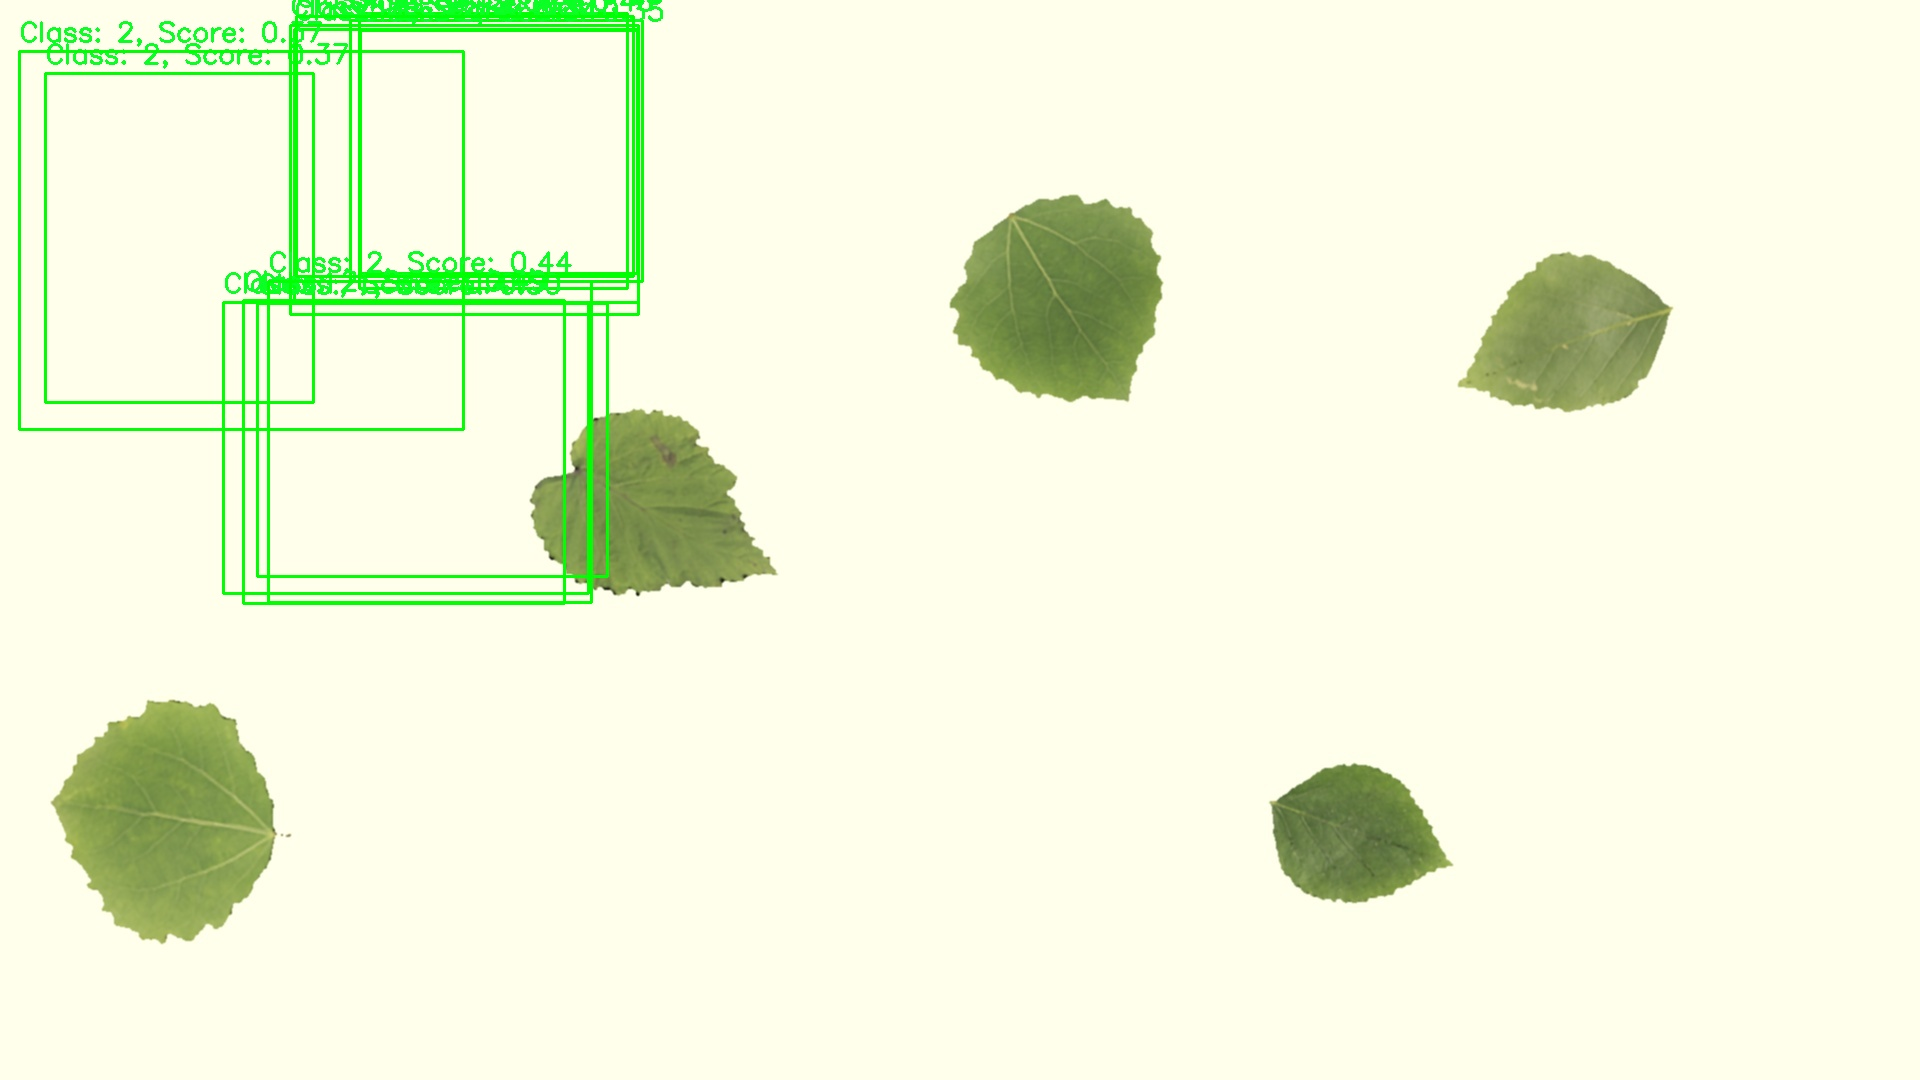
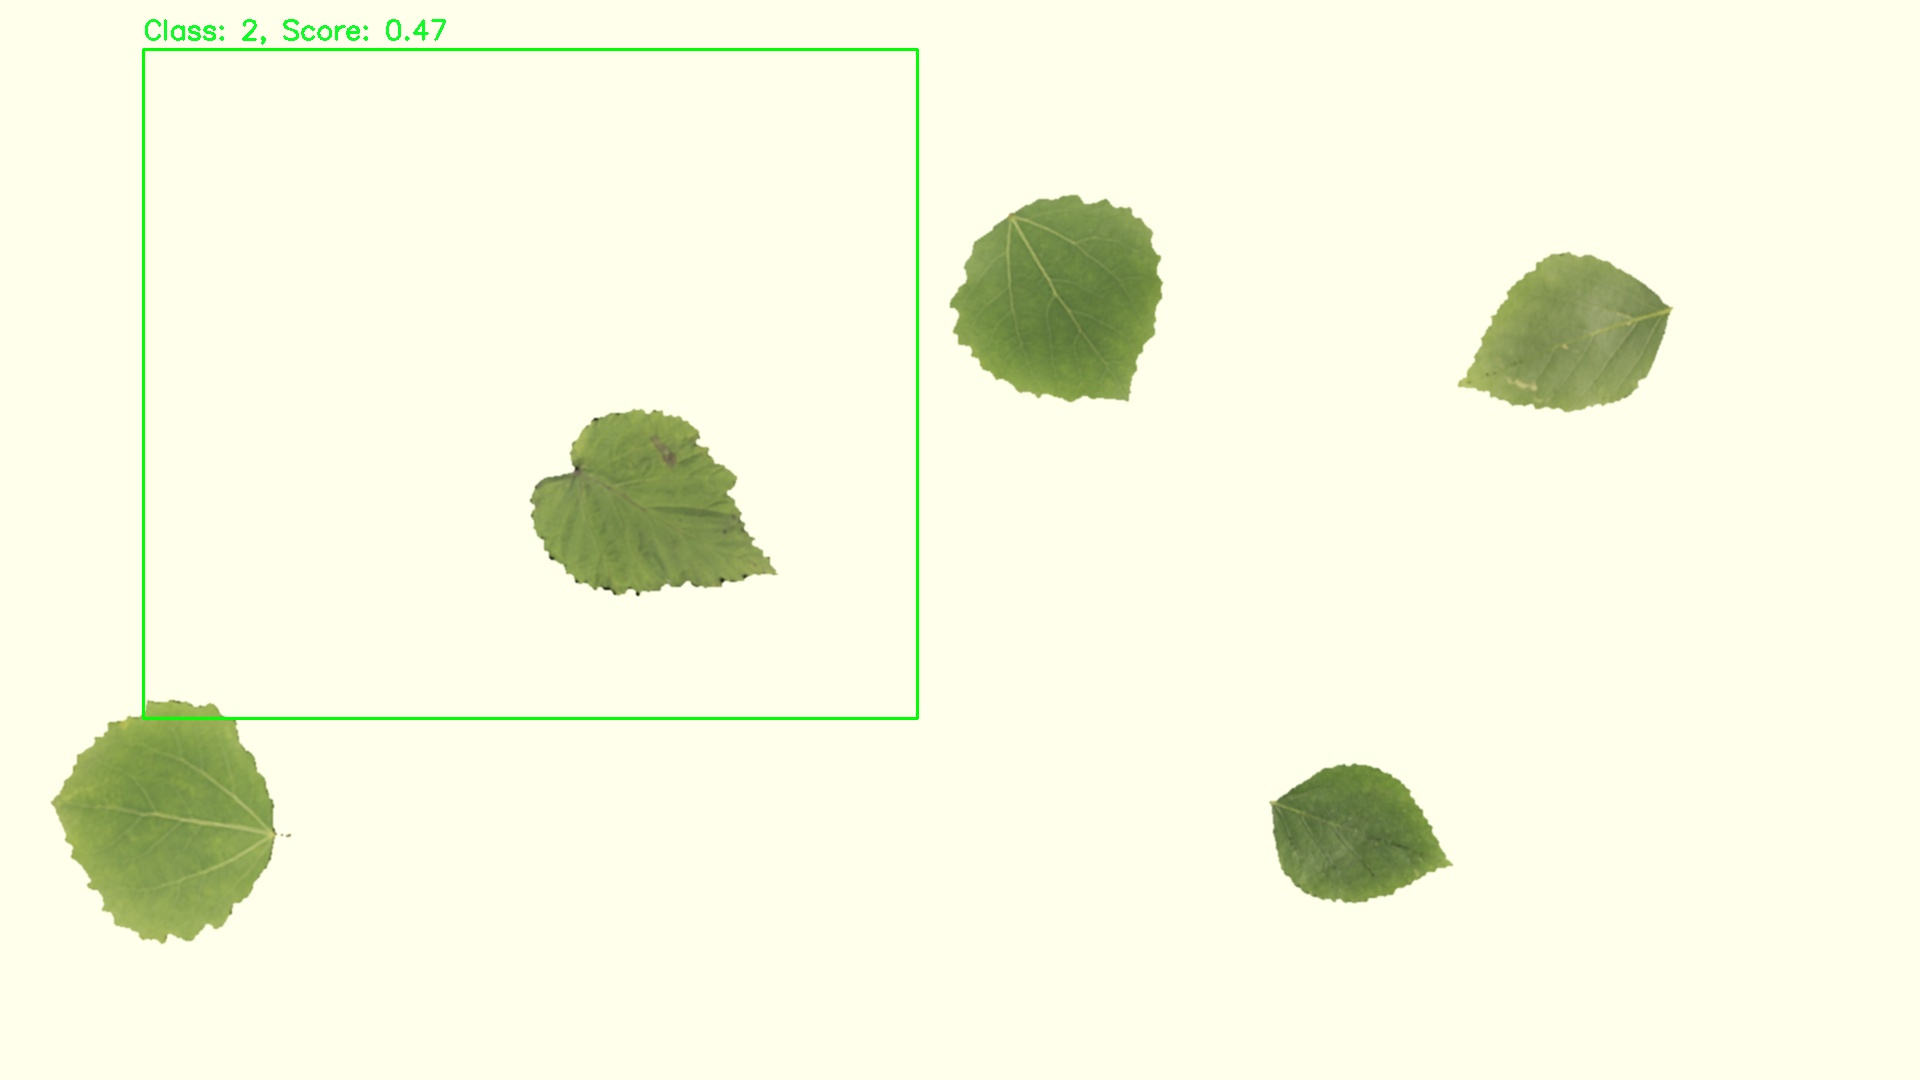
updated preprocessing functionality in detect_test, now it applies boxes in properly resized version of the image ,avoids too much of the overlap.

Changed region(s): [[0.0, 0.0, 0.4688, 0.5806], [0.0625, 0.6417, 0.5, 0.6722], [0.2188, 0.3667, 0.25, 0.3972]]

diff --git a/detect_test.py b/detect_test.py
@@ -3,15 +3,42 @@ import cv2
 import numpy as np
 
 
-def preprocess_image(img_path, img_size=640):
+def preprocess_image(img_path, img_size=640, maintain_aspect_ratio=True):
     img = cv2.imread(img_path)
+    if img is None:
+        raise FileNotFoundError(f"Image not found: {img_path}")
+
     img = cv2.cvtColor(img, cv2.COLOR_BGR2RGB)
-    img = cv2.resize(img, (img_size, img_size))
+
+    if maintain_aspect_ratio:
+        old_size = img.shape[:2]
+        ratio = float(img_size) / max(old_size)
+        new_size = tuple([int(x * ratio) for x in old_size])
+        img = cv2.resize(img, (new_size[1], new_size[0]))
+        delta_w = img_size - new_size[1]
+        delta_h = img_size - new_size[0]
+        top, bottom = delta_h // 2, delta_h - (delta_h // 2)
+        left, right = delta_w // 2, delta_w - (delta_w // 2)
+        color = [0, 0, 0]
+        img = cv2.copyMakeBorder(img, top, bottom, left, right, cv2.BORDER_CONSTANT, value=color)
+        pad = (left, top, right, bottom)
+
+        padded_height = new_size[0] + top + bottom
+        padded_width = new_size[1] + left + right
+        if padded_width <= 0 or padded_height <= 0:
+            raise ValueError("Padding has resulted in non-positive dimensions of the image.")
+
+        current_size = (padded_width, padded_height)
+        print(f"After padding, current size: {current_size}")
+    else:
+        img = cv2.resize(img, (img_size, img_size))
+        current_size = (img_size, img_size)
+        pad = (0, 0, 0, 0)
+
     img = img / 255.0
     img = np.transpose(img, (2, 0, 1))
-    img = torch.tensor(img).float().unsqueeze(0)
-    return img
-
+    img_tensor = torch.tensor(img, dtype=torch.float).unsqueeze(0)
+    return img_tensor, current_size, pad
 
 def iou(box, boxes):
     inter_x1 = np.maximum(boxes[:, 0], box[0])
@@ -35,14 +62,13 @@ def nms(boxes, scores, iou_threshold):
         keep.append(i)
         if indices.size == 1: break
         ious = iou(boxes[i], boxes[indices[1:]])
-        # Diagnostic print to check the effect of IoU thresholding
         print(f"Indices before filtering: {indices.size}")
         indices = indices[np.where(ious < iou_threshold)[0] + 1]
         print(f"Indices after filtering: {indices.size}")
     return keep
 
 
-def apply_nms(predictions, iou_thresh=0.2):
+def apply_nms(predictions, iou_thresh=0.8):
     print("apply_nms called")
     boxes = predictions[:, :4].cpu().numpy()
     scores = predictions[:, 4].cpu().numpy()
@@ -51,8 +77,7 @@ def apply_nms(predictions, iou_thresh=0.2):
     print(f"Number of predictions after NMS: {len(nms_indices)}")
     return predictions[nms_indices]
 
-
-def post_process(predictions, obj_thresh=0.3, iou_thresh=0.2):
+def post_process(predictions, obj_thresh=0.5, iou_thresh=0.8):
     print(f"Predictions before objectness filtering: {predictions}")
     filtered_preds = predictions[predictions[:, 4] > obj_thresh]
     print(f"Predictions after objectness filtering: {filtered_preds}")
@@ -60,21 +85,60 @@ def post_process(predictions, obj_thresh=0.3, iou_thresh=0.2):
     return nms_preds
 
 
-def draw_final_boxes(img, boxes, scores, class_ids):
-    for box, score, class_id in zip(boxes, scores, class_ids):
+def adjust_boxes(boxes, orig_size, current_size, pad=(0, 0, 0, 0)):
+    orig_width, orig_height = orig_size
+    current_width, current_height = current_size
+    pad_left, pad_top, pad_right, pad_bottom = pad
+
+    if current_width - pad_left - pad_right <= 0:
+        raise ValueError(f"Invalid current width for scaling: {current_width} with padding: {pad_left}, {pad_right}")
+    if current_height - pad_top - pad_bottom <= 0:
+        raise ValueError(f"Invalid current height for scaling: {current_height} with padding: {pad_top}, {pad_bottom}")
+
+    x_scale = orig_width / (current_width - pad_left - pad_right)
+    y_scale = orig_height / (current_height - pad_top - pad_bottom)
+
+    # Debug information
+    print(f"Original Size: {orig_size}, Current Size: {current_size}, Padding: {pad}")
+    print(f"Scaling factors - X: {x_scale}, Y: {y_scale}")
+
+    adjusted_boxes = []
+    for index, box in enumerate(boxes):
         x_center, y_center, width, height = box
-        x1 = x_center - (width / 2)
-        y1 = y_center - (height / 2)
-        x2 = x_center + (width / 2)
-        y2 = y_center + (height / 2)
+        x1 = (x_center - width / 2 - pad_left) * x_scale
+        y1 = (y_center - height / 2 - pad_top) * y_scale
+        x2 = (x_center + width / 2 - pad_left) * x_scale
+        y2 = (y_center + height / 2 - pad_top) * y_scale
 
+        x1 = np.clip(x1, 0, orig_width)
+        y1 = np.clip(y1, 0, orig_height)
+        x2 = np.clip(x2, 0, orig_width)
+        y2 = np.clip(y2, 0, orig_height)
+
+        adjusted_box = [x1, y1, x2, y2]
+        adjusted_boxes.append(adjusted_box)
+        print(f"Box {index + 1} - Original: {box}, Adjusted: {adjusted_box}")
+
+    return np.array(adjusted_boxes)
+
+def draw_final_boxes(img, boxes, scores, class_ids, orig_size, current_size, pad=(0, 0, 0, 0)):
+    adjusted_boxes = adjust_boxes(boxes, orig_size, current_size, pad)
+    for box, score, class_id in zip(adjusted_boxes, scores, class_ids):
+        x1, y1, x2, y2 = box
         cv2.rectangle(img, (int(x1), int(y1)), (int(x2), int(y2)), (0, 255, 0), 2)
-        cv2.putText(img, f"Class: {class_id}, Score: {score:.2f}", (int(x1), int(y1) - 10), cv2.FONT_HERSHEY_SIMPLEX, 0.9, (36, 255, 12), 2)
+        cv2.putText(img, f"Class: {class_id}, Score: {score:.2f}", (int(x1), int(y1) - 10),
+                    cv2.FONT_HERSHEY_SIMPLEX, 0.9, (36, 255, 12), 2)
 
+def enhanced_detect(img_path: str, model, device, obj_thresh=0.4, iou_thresh=0.7, class_thresh=0.4):
+    original_img = cv2.imread(img_path)
+    if original_img is None:
+        raise FileNotFoundError(f"Image not found: {img_path}")
+    original_height, original_width = original_img.shape[:2]
 
-def enhanced_detect(img_path: str, model, device, obj_thresh=0.3, iou_thresh=0.2, class_thresh=0.3):
-    img_tensor = preprocess_image(img_path).to(device)
+    img_tensor, current_size, pad = preprocess_image(img_path, maintain_aspect_ratio=True)
+    img_tensor = img_tensor.to(device)
 
+    model.eval()
     if device.type == 'cuda':
         model.half()
         img_tensor = img_tensor.half()
@@ -85,14 +149,19 @@ def enhanced_detect(img_path: str, model, device, obj_thresh=0.3, iou_thresh=0.2
     with torch.no_grad():
         prediction = model(img_tensor)
 
-    print(f"Raw predictions: {prediction}")
-
     predictions = prediction[0][0] if prediction[0].numel() > 0 else torch.tensor([])
-    print(f"Predictions after accessing the expected tensor: {predictions}")
 
     post_processed_preds = post_process(predictions, obj_thresh, iou_thresh)
 
-    print(f"Predictions after NMS: {post_processed_preds}")
+    for pred in post_processed_preds:
+        bbox = pred[:4].cpu().numpy()
+        obj_score = pred[4].item()
+        class_scores = pred[5:].cpu().numpy()
+        best_class_idx = np.argmax(class_scores)
+        best_class_score = class_scores[best_class_idx]
+
+
+        print(f"Bounding Box: {bbox}, Objectness: {obj_score:.2f}, Best Class: {best_class_idx} (Score: {best_class_score:.2f})")
 
     class_scores = post_processed_preds[:, 5:]
     scores, class_ids = class_scores.max(1)
@@ -112,11 +181,19 @@ def enhanced_detect(img_path: str, model, device, obj_thresh=0.3, iou_thresh=0.2
 
     img = cv2.imread(img_path)
 
-    draw_final_boxes(img, final_boxes.cpu().numpy(), final_scores.cpu().numpy(), final_class_ids.cpu().numpy())
+    orig_size = (original_width, original_height)
 
+
+    original_img = cv2.imread(img_path)
+
+
+    print(f"Drawing boxes with orig_size: {orig_size}, current_size: {current_size}, pad: {pad}")
+
+    draw_final_boxes(original_img, final_boxes, final_scores, final_class_ids,
+                     (original_width, original_height), current_size, pad)
 
     output_path = img_path.replace(".jpg", "_debug.jpg")
-    cv2.imwrite(output_path, img)
+    cv2.imwrite(output_path, original_img)
     print(f"Output saved to {output_path}")
 
 
@@ -125,5 +202,5 @@ model_path = 'models/best.pt'
 model = torch.load(model_path, map_location=device)['model']
 model.to(device).eval()
 
-img_path = 'data/data_val/images/0035.jpg'
+img_path = 'data/data_val/images/0031.jpg'
 enhanced_detect(img_path, model, device)

diff --git a/detect.py b/detect.py
@@ -75,11 +75,24 @@ def detect(img_path: str) -> Dict[str, int]:
     img_tensor = preprocess_image(img).to(device)
     with torch.no_grad():
         prediction = model(img_tensor)
-    post_processed_preds = post_process(prediction[0][0] if prediction[0].numel() > 0 else torch.tensor([]))
+        predictions = prediction[0][0] if prediction[0].numel() > 0 else torch.tensor([])
+        post_processed_preds = post_process(predictions, obj_thresh=0.3, iou_thresh=0.2)
+
     object_counts = {'aspen': 0, 'birch': 0, 'hazel': 0, 'maple': 0, 'oak': 0}
-    for _, _, class_id in post_processed_preds:
-        if class_id == 0: object_counts['aspen'] += 1
-        elif class_id == 1: object_counts['birch'] += 1
+    if post_processed_preds.numel() > 0: 
+        for pred in post_processed_preds:
+            scores = pred[5:]
+            class_id = scores.argmax().item()
+            if class_id == 0:
+                object_counts['aspen'] += 1
+            elif class_id == 1:
+                object_counts['birch'] += 1
+            elif class_id == 2:
+                object_counts['hazel'] += 1
+            elif class_id == 3:
+                object_counts['maple'] += 1
+            elif class_id == 4:
+                object_counts['oak'] += 1
     return object_counts
 
 @click.command()
